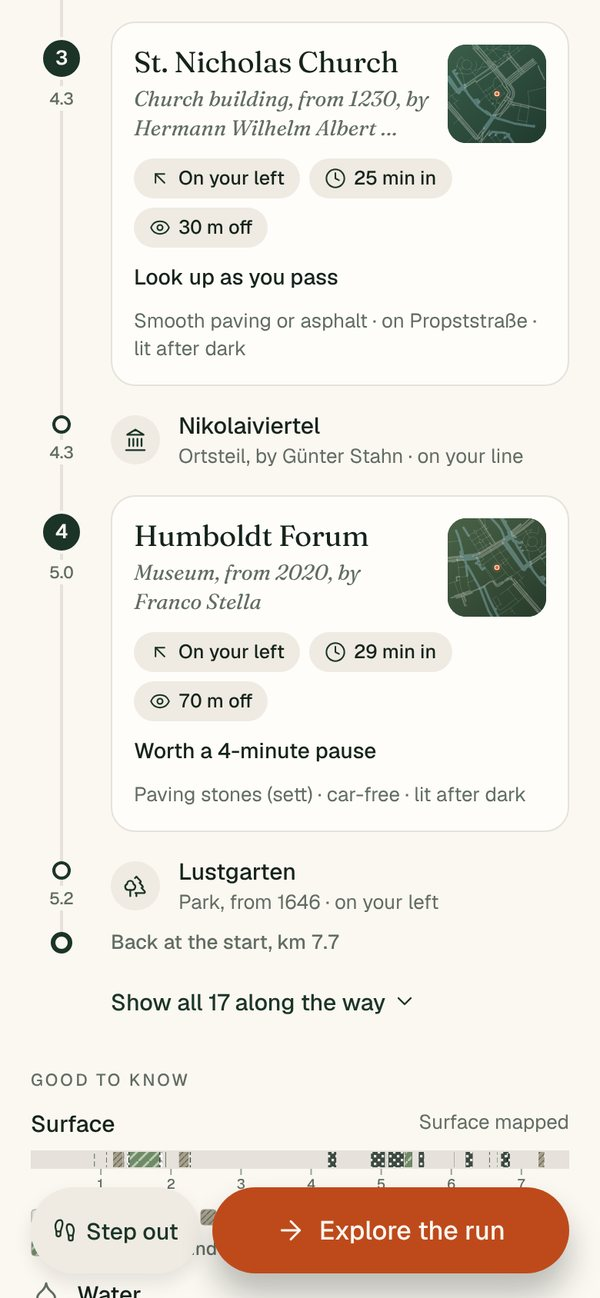
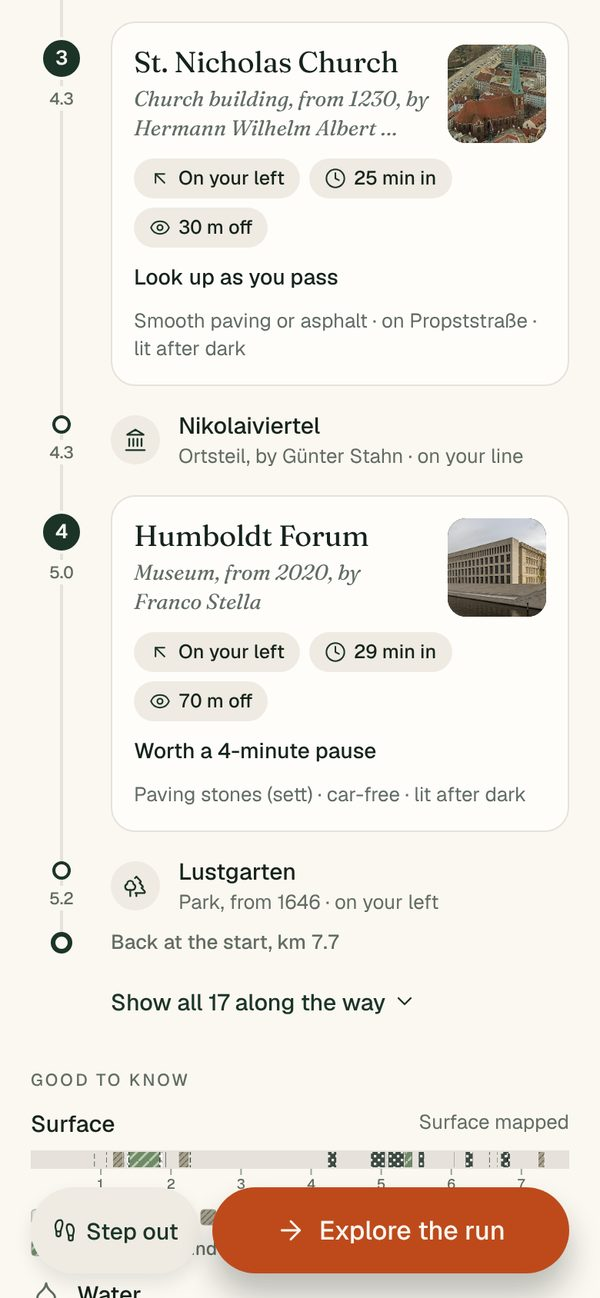
Roam screens with the app's Wikimedia Commons photos; new closing copy
The three Roam screens with sights are recaptured from the app built from
its repo, with its fallback photos: each sight's own Commons image, as the
worker serves when Unsplash has none. Photographers and licences are
credited in the caption. The closing section now sums up what building
with AI changed, what it still takes, and where it falls short.

Claude-Session: https://claude.ai/code/session_017KcQSPmvfQK8JZoordfWAc

Changed region(s): [[0.72, 0.0308, 0.93, 0.1233], [0.72, 0.4006, 0.93, 0.4931]]

diff --git a/lab.html b/lab.html
@@ -268,28 +268,28 @@
         </figcaption>
       </figure>
       <figure class="appshot rx-shot">
-        <img class="device-img rx-phone" src="img/roam-04-options.jpg" alt="Roam results: the 7.7 km loop from Rosenthaler Platz with ten numbered sights, and the best-match card, Old Museum and Old National Gallery, 42 to 46 minutes, moderate" loading="lazy" width="600" height="1298">
+        <img class="device-img rx-phone" src="img/roam-04-options.jpg" alt="Roam results: the 7.7 km loop from Rosenthaler Platz with ten numbered sights, and the best-match card with a photo of the Old Museum, Old Museum and Old National Gallery, 42 to 46 minutes, moderate" loading="lazy" width="600" height="1298">
         <figcaption class="appshot-c">
           <div class="flow-t">Three loops</div>
           <div class="flow-d">Each named after its sights, numbered in running order.</div>
         </figcaption>
       </figure>
       <figure class="appshot rx-shot">
-        <img class="device-img rx-phone" src="img/roam-06-surface.jpg" alt="Good to know: a kilometre-by-kilometre surface strip, 5.8 km smooth, 0.4 km packed gravel, 0.5 km soft ground and 0.9 km cobbles, then water, lighting, traffic and heads-ups" loading="lazy" width="600" height="1298">
+        <img class="device-img rx-phone" src="img/roam-06-surface.jpg" alt="Route details, along the way: St. Nicholas Church at km 4.3, on your left, 25 minutes in, 30 m off, and Humboldt Forum at km 5.0, on your left, 29 minutes in, 70 m off, worth a 4-minute pause, each with a photo, then Good to know with the surface strip" loading="lazy" width="600" height="1298">
         <figcaption class="appshot-c">
-          <div class="flow-t">Good to know</div>
-          <div class="flow-d">Surface by the kilometre, water, lighting, traffic and heads-ups.</div>
+          <div class="flow-t">Along the way</div>
+          <div class="flow-d">Which side, how many minutes in, how far off the path.</div>
         </figcaption>
       </figure>
       <figure class="appshot rx-shot">
-        <img class="device-img rx-phone" src="img/roam-08-stop1.jpg" alt="Stop 1 of 10 at km 3.7, Fernsehturm Berlin: on your right, 40 m off the path, about 21 minutes in, look out, a view opens here" loading="lazy" width="600" height="1298">
+        <img class="device-img rx-phone" src="img/roam-08-stop1.jpg" alt="Stop 1 of 10 at km 3.7, Fernsehturm Berlin, over a photo of the tower: on your right, 40 m off the path, about 21 minutes in, look out, a view opens here" loading="lazy" width="600" height="1298">
         <figcaption class="appshot-c">
           <div class="flow-t">Stop by stop</div>
-          <div class="flow-d">Which side, how far off the path, how many minutes in.</div>
+          <div class="flow-d">One sight at a time, where it is on the loop, and what’s underfoot.</div>
         </figcaption>
       </figure>
     </div>
-    <p class="cap">The 8 km loop above, in Roam. Sight photos load from Unsplash on the live app; this build shows its map placeholder</p>
+    <p class="cap">The 8 km loop above, in Roam. When Unsplash has no photo of a sight, Roam uses the sight’s own image from Wikimedia Commons, as here: Old Museum by <a href="https://commons.wikimedia.org/wiki/File:Berl%C3%ADn_Star%C3%A9_muzeum_4.jpg" target="_blank" rel="noopener">VitVit</a>, CC BY-SA 4.0; St. Nicholas Church by <a href="https://commons.wikimedia.org/wiki/File:View_Berlin_TV_Tower_Jan2015_img4.jpg" target="_blank" rel="noopener">A.Savin</a>, CC BY-SA 3.0; Humboldt Forum by <a href="https://commons.wikimedia.org/wiki/File:At_Berlin_2024_241.jpg" target="_blank" rel="noopener">Mike Peel</a>, CC BY-SA 4.0; Fernsehturm by <a href="https://commons.wikimedia.org/wiki/File:Tv-turm_-_panoramio.jpg" target="_blank" rel="noopener">L-BBE</a>, CC BY 3.0.</p>
   </section>
 
 </div>
@@ -584,18 +584,23 @@
   </section>
 
   <!-- ═══ 05 · HOW THEY WERE BUILT ══════════════════════ -->
-  <!-- The page closes on the thing all four have in common. Set as a
-       chapter like the others, so it reads as part of the page and not as a
-       footnote. No stats: a reservation with a figure bolted to it reads as a
-       finding, and this is not one. -->
+  <!-- The page closes on the thing all four have in common, and what Jimi
+       takes from it. Set as a chapter like the others, with the same glance
+       table, so it reads as part of the page and not as a footnote. -->
   <section class="section" data-reveal>
     <p class="lbl"><span class="lbl-n">05</span>How they were made</p>
     <div class="two is-wide is-top">
       <h2>Made with a mix of <em>AI tools.</em></h2>
       <div>
-        <p class="lede">ChatGPT, Lovable and Claude each got things running fast, but code generation is only the starting line. Getting to a product worth using took what software always takes: taste, constraints, and sweating the details.</p>
+        <p class="lede">ChatGPT, Lovable and Claude got all four running fast. Building is now far cheaper, and the barriers to starting are much lower.</p>
       </div>
     </div>
+
+    <dl class="glance is-inset">
+      <div><dt>Where it helps</dt><dd>Quick prototyping and development. That is where I see real-world use for it today.</dd></div>
+      <div><dt>What it still takes</dt><dd>Research, taste, constraints and fine-tuning the details. That is what turns something that runs into a product worth using.</dd></div>
+      <div><dt>Where it falls short</dt><dd>Creative thinking and problem solving aren’t there yet. I’m also not sure it improves design: sometimes less is more.</dd></div>
+    </dl>
   </section>
 
 </div>
